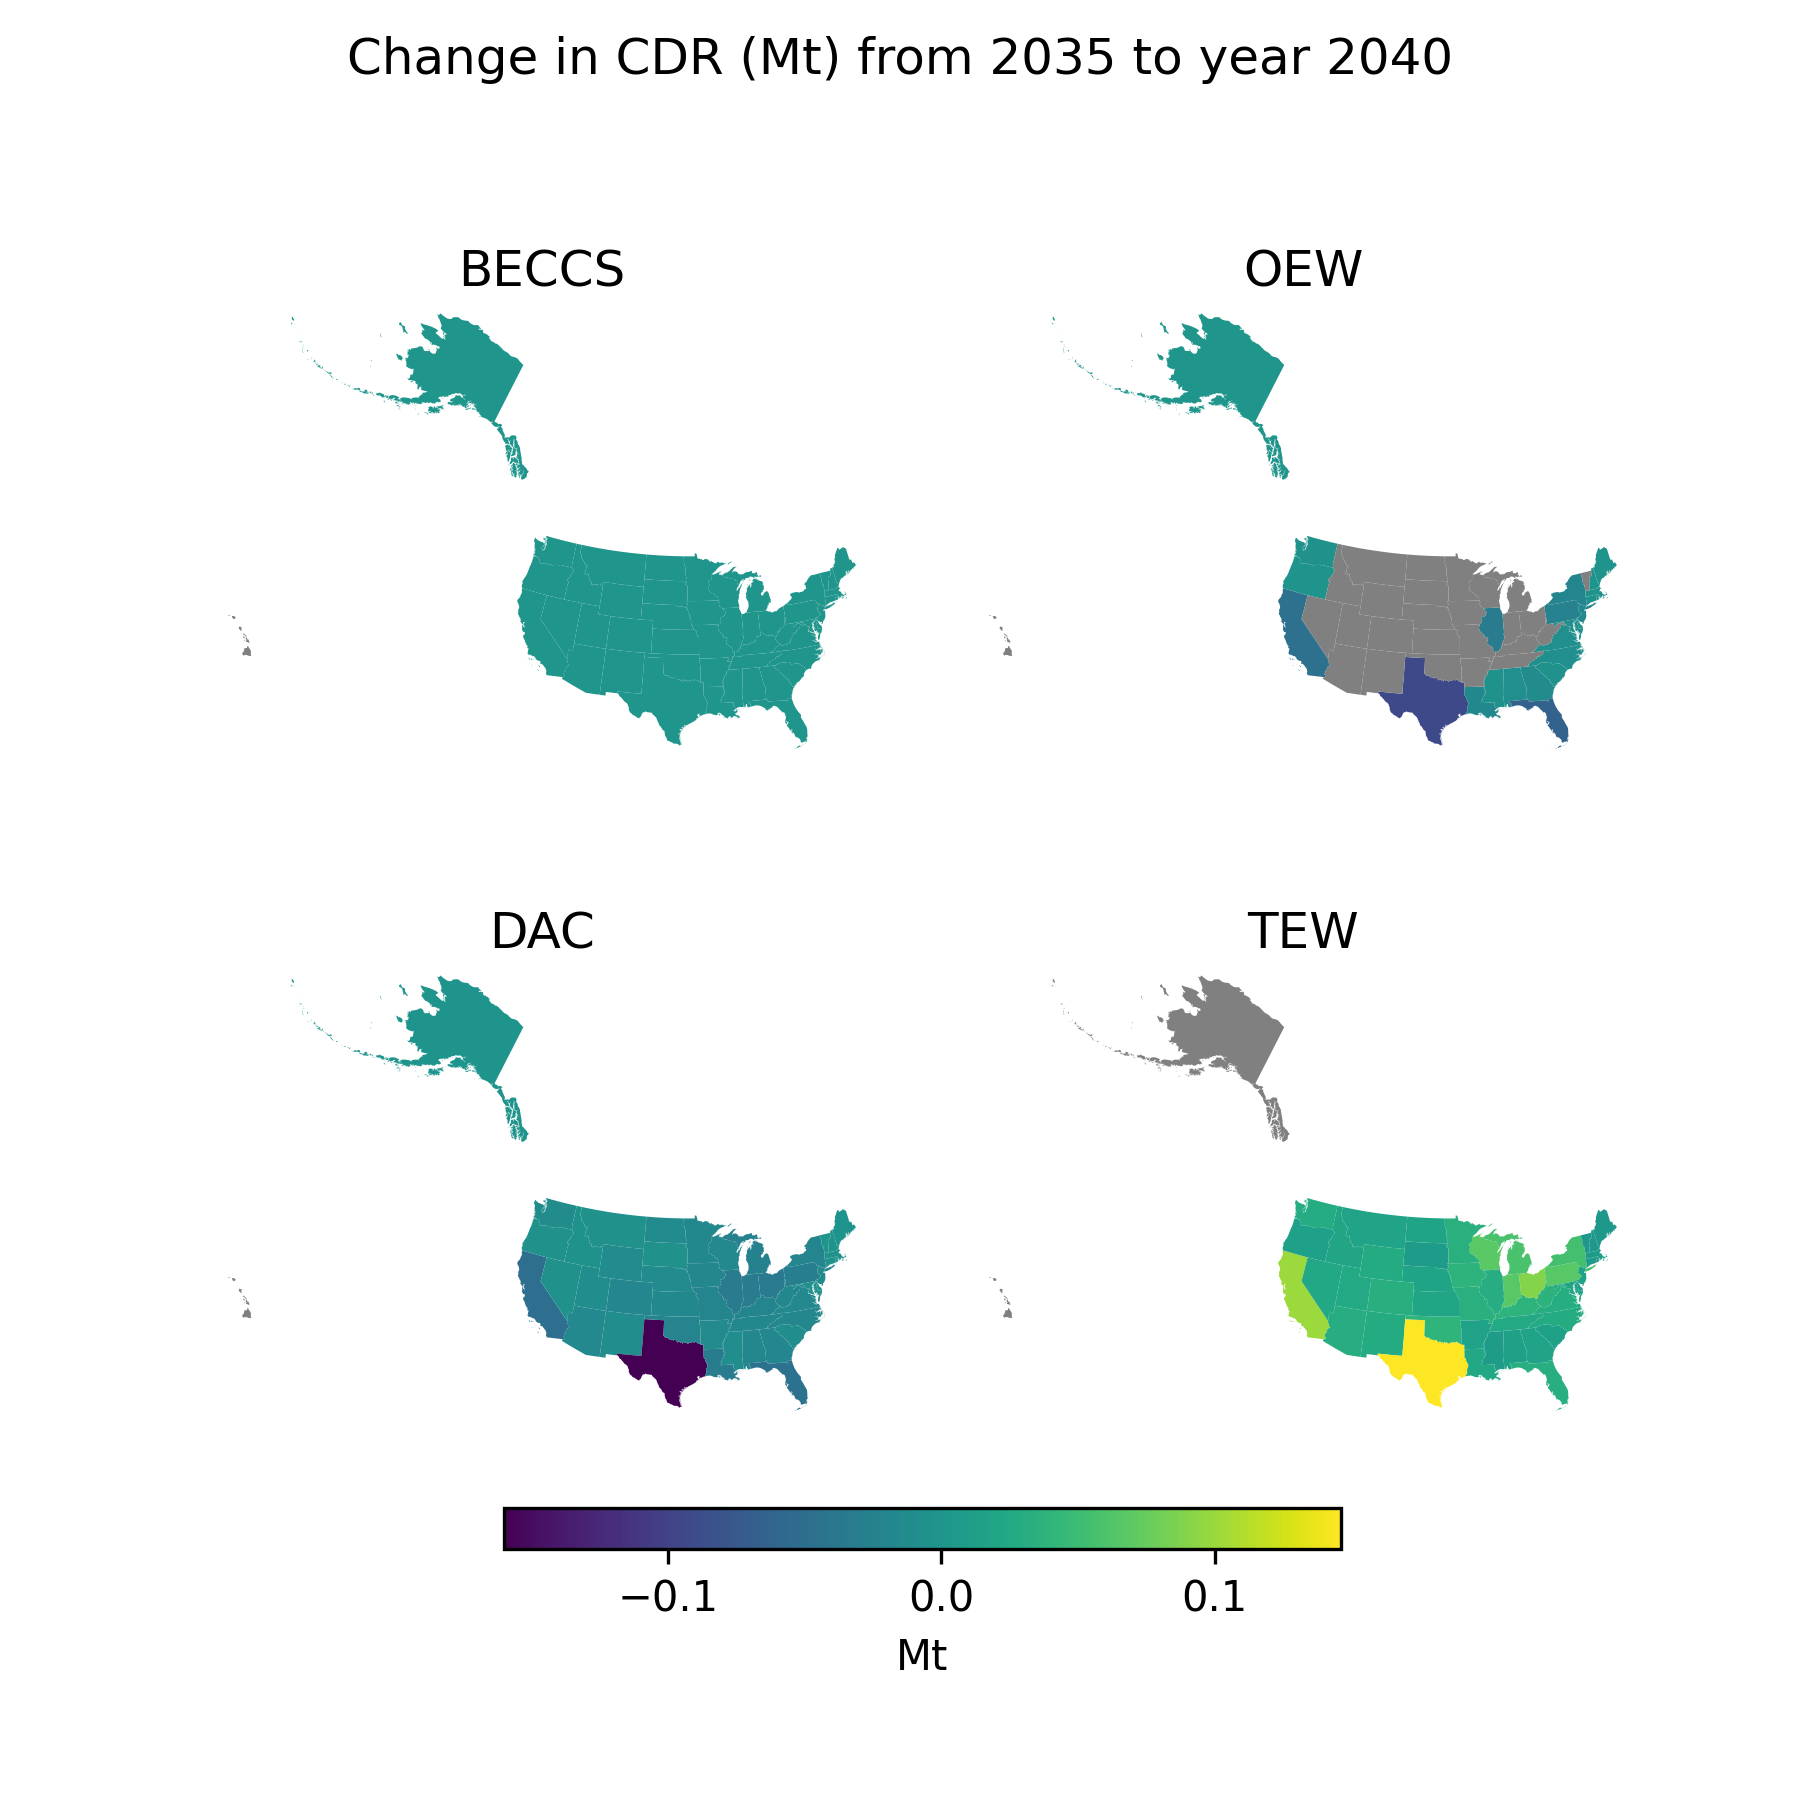
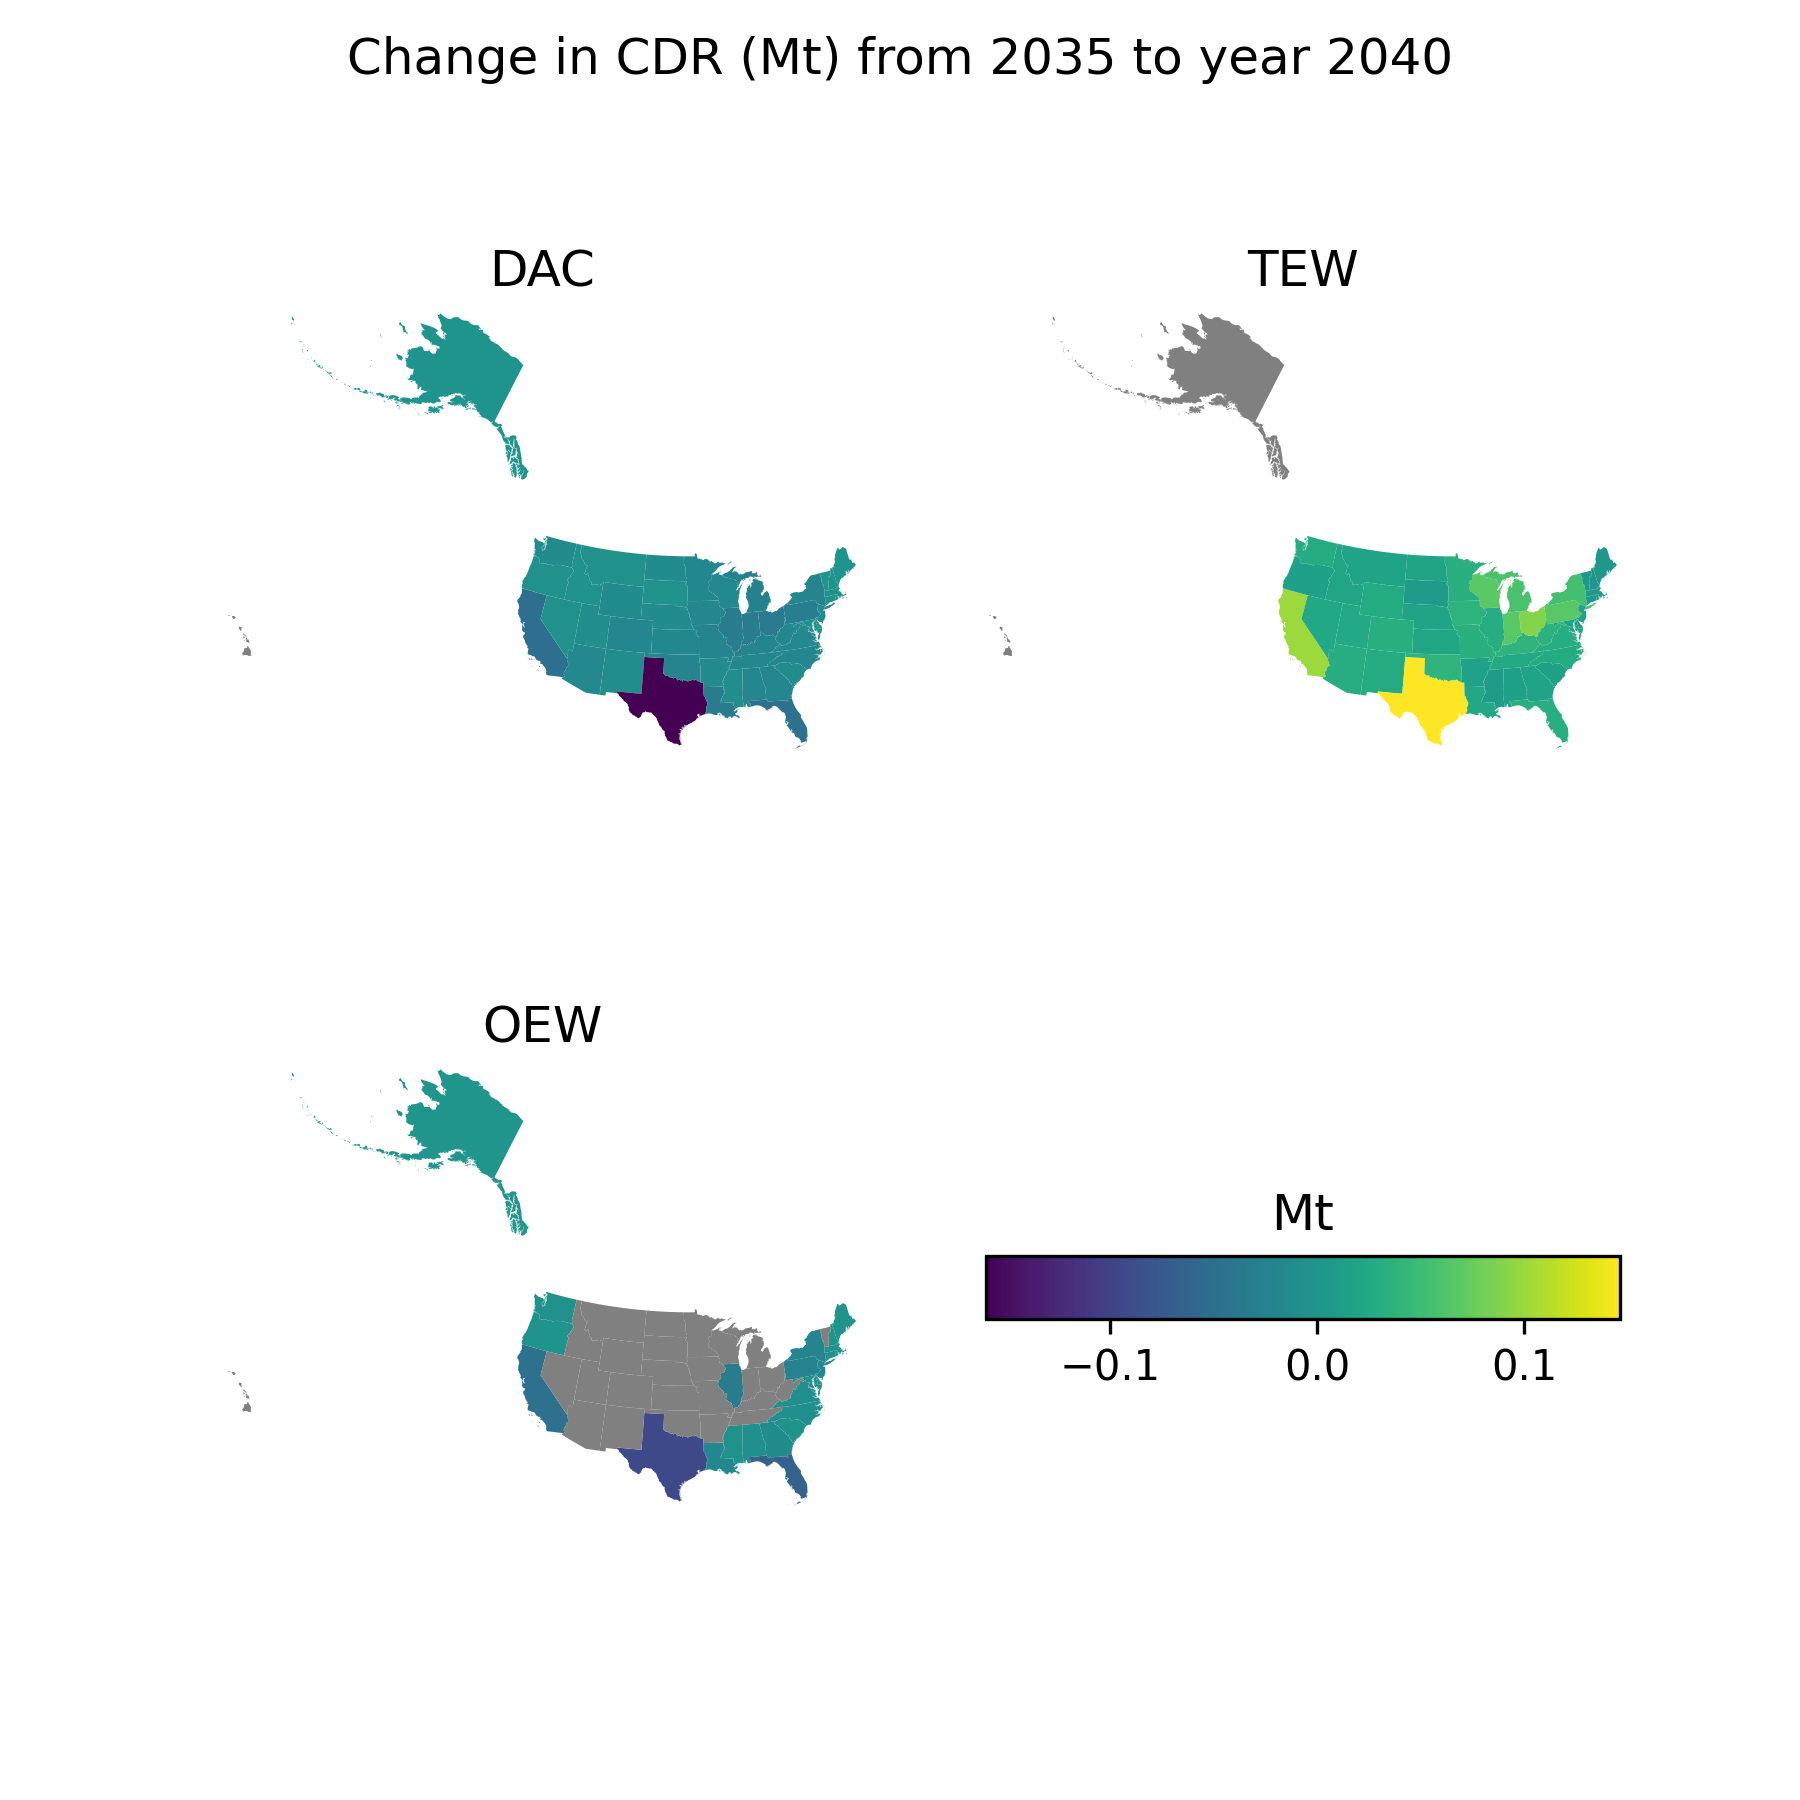
plots for change in CDR demand when procurement expires

diff --git a/supplementary_figures.py b/supplementary_figures.py
@@ -14,14 +14,14 @@ def main(config_fname, reference_year):
     config_fname = config_fname.replace("_", "/")
     os.makedirs("./data/data_analysis/images/" + config_fname + "/", exist_ok=True)
     # compare_policy_costs("innovation-DACHubs_high", "innovation-rhodium6b_high")
-    CAGR(config_fname, "2050")
+    # CAGR(config_fname, "2050")
     # land_allocation(config_fname, "2050")
     # cement(config_fname, "2050")
     # electricity(config_fname, "2050")
     # state_CDR(config_fname, "2050")
     # C_tax(config_fname, reference_year)
     # C_prices(config_fname, reference_year)
-    # CDR_subsidies(config_fname, "2035", "2040")
+    CDR_subsidies(config_fname, "2035", "2040")
 
 def CAGR(config_fname, reference_year):
     scenarios = ["low_low", "high_high", "s1-procureScaling-l_low", "s1-procure3B-l_low", "s1-procureRhodium-l_low",
@@ -339,7 +339,14 @@ def CDR_subsidies(config_fname, year1, year2):
 
     CDR["plot"] = CDR[year2] - CDR[year1]
 
+    if config_fname.split("/")[1] == "nothing":
+        # no BECCS in the nothing baseline
+        CDR = CDR[CDR["technology"] != "BECCS"]
+
     # choropleth map
+    plotting.plot_regional_hist_avg(CDR, 'plot',
+                                    "change in size of CDR markets from 2035 to 2040",
+                                    "technology", config_fname)
     plotting.plot_world_by_products(CDR, "technology", ["plot"],
                                     "Change in CDR (Mt) from " + year1 + " to year " + year2, config_fname)
 
@@ -384,5 +391,5 @@ def compare_policy_costs(scenario1, scenario2):
 
 
 if __name__ == '__main__':
-    for i in ["low_low"]:
+    for i in ["s1-procureScaling-n_nothing", "s1-procure3B-n_nothing"]:
         main(i, "2050")

diff --git a/plotting.py b/plotting.py
@@ -1232,7 +1232,10 @@ def plot_regional_hist_avg(prices, year, title, column, config_fname):
         return
 
     # plot histogram
-    bind_width = (int(prices[year].max() + .1) - int(prices[year].min() - .1)) / 40
+    if config_fname.split("/")[1] == "nothing":
+        bind_width = (prices[year].max() + .1 - prices[year].min() - .1) / 10
+    else:
+        bind_width = (int(prices[year].max() + .1) - int(prices[year].min() - .1)) / 40
     bins = [bind_width * i for i in
             range(int(prices[year].min() / bind_width) - 1, int(prices[year].max() / bind_width) + 2)]
 
